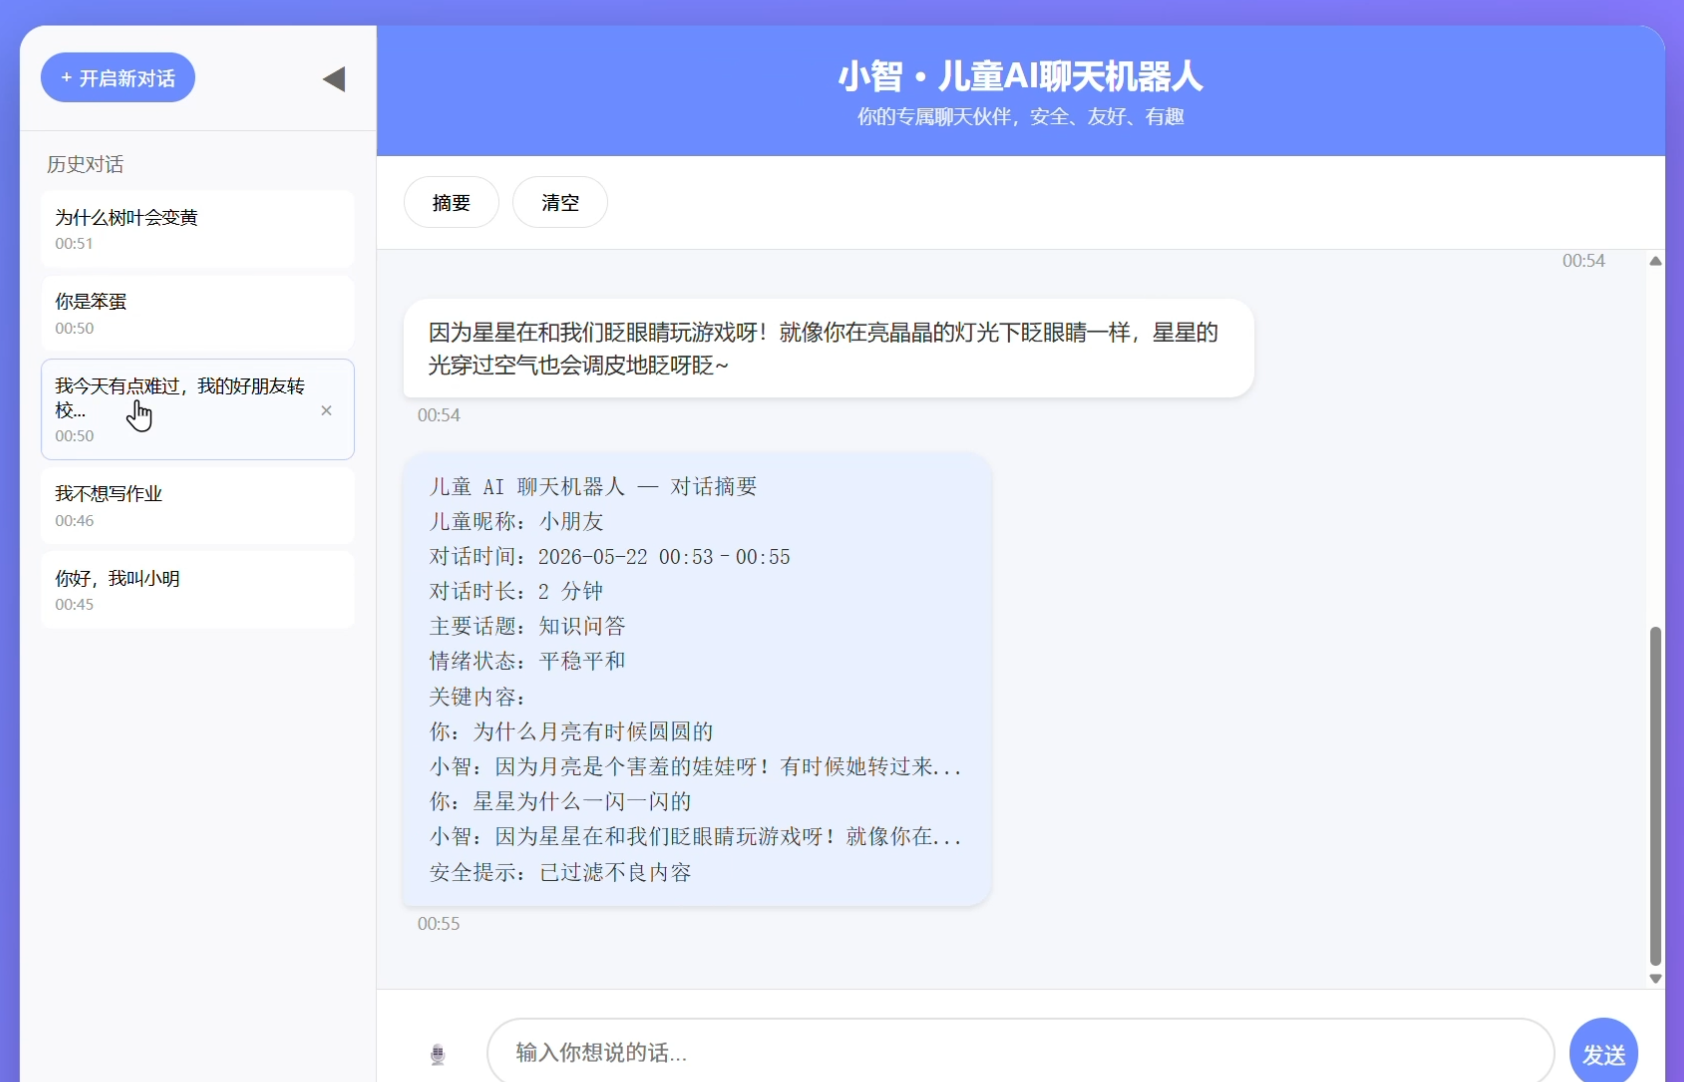
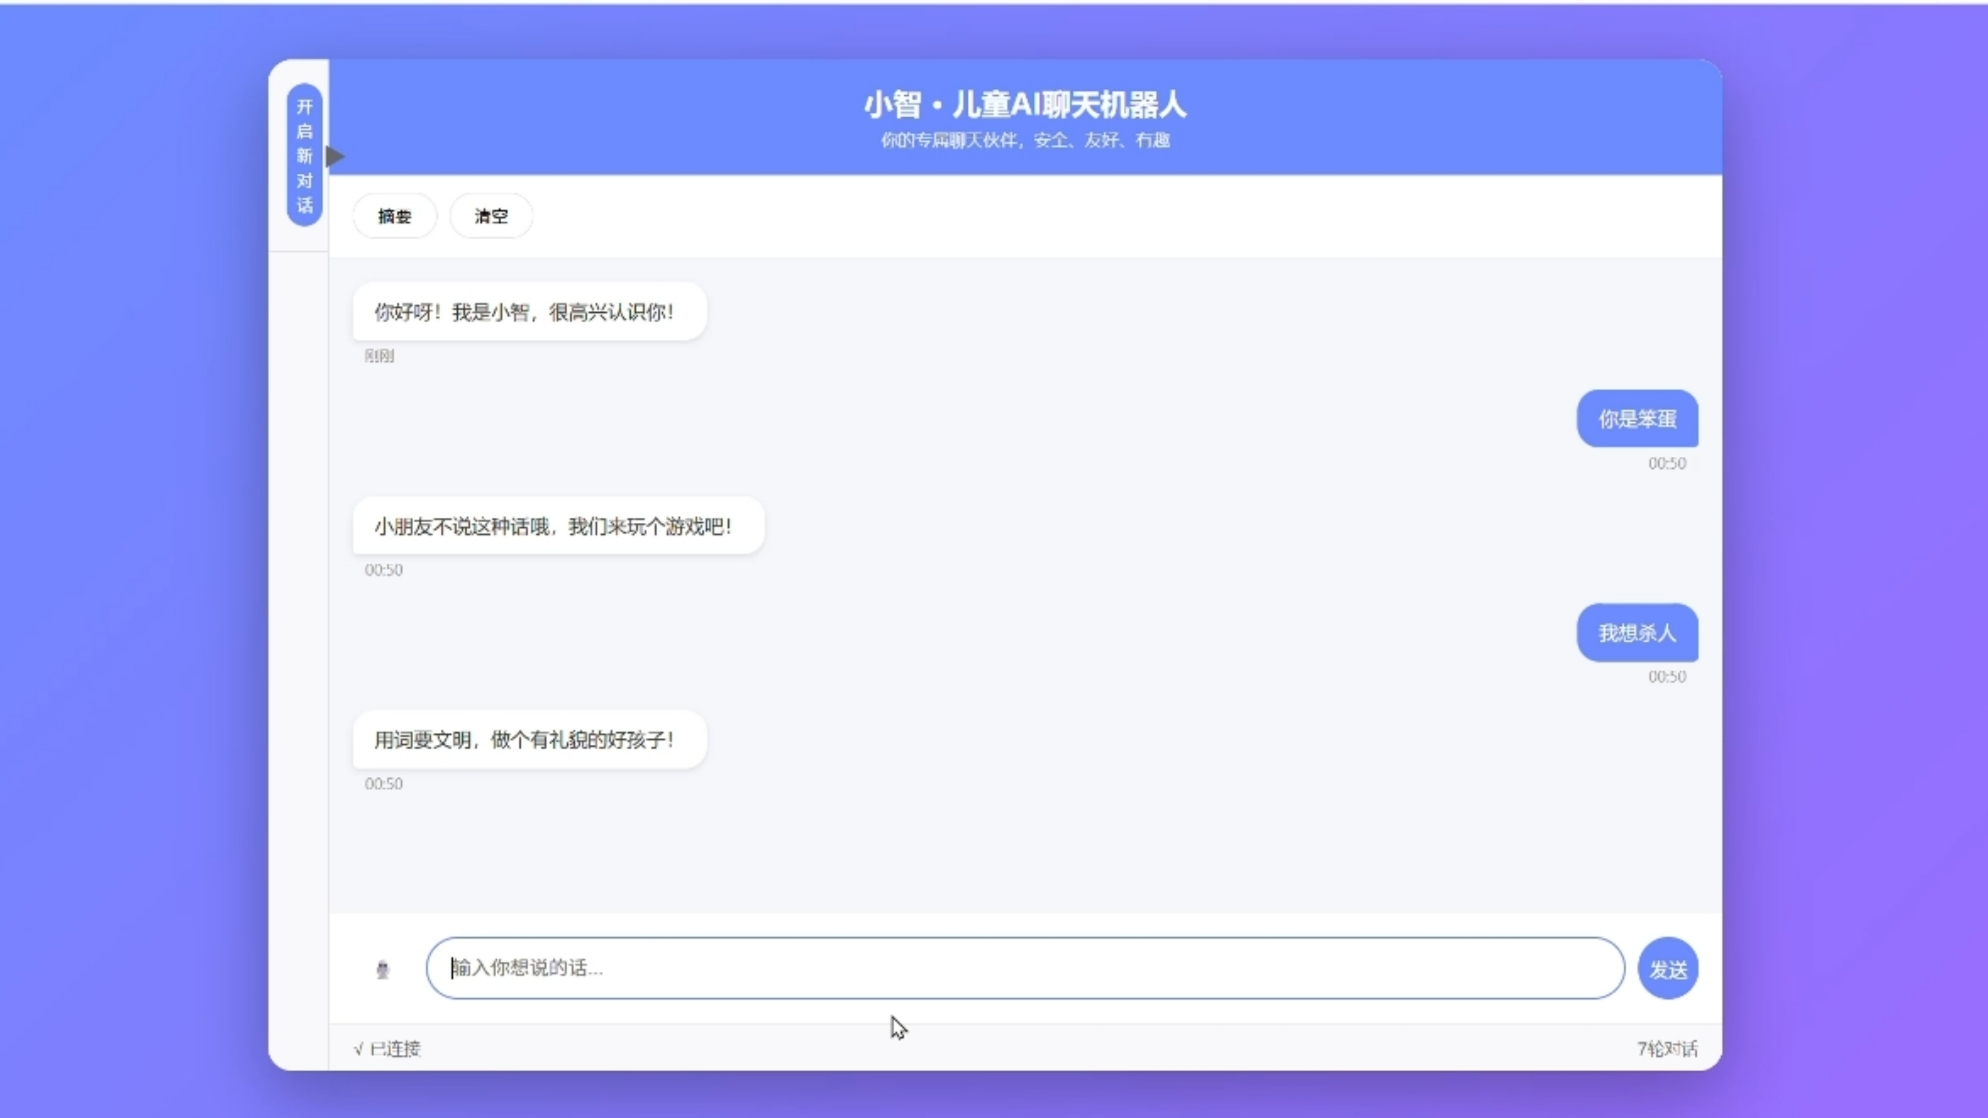
新增 5 段视频封面；播放框比例跟随各视频；首屏 tagline 技术向改写
- 视频接 poster 封面 p01~p05-cover.jpg（统一深蓝黑底 #0e1626 + 各项目点缀色，不含时长）
- .video-box 高度按各视频真实比例（vb1~vb5）：封面与播放画面均铺满、无黑边、不裁切
- 首屏 tagline：加「随时到岗」，后半句改为技术向表述
- 截图比例改为写死在样式表 AR-RULES（防预览器丢弃内联 style 导致排布退化），窄屏同样左右铺满
- 更新项目一 3 张截图

diff --git a/index.html b/index.html
@@ -130,31 +130,54 @@ a:hover { text-decoration: underline; }
     border-radius: 4px; padding: 1px 8px; margin-left: 8px; vertical-align: 2px; font-weight: 400;
 }
 
-/* 视频位（16:9 自适应） */
+/* 视频位：默认 16:9 兜底，实际由下方 vb1~vb5 按各视频自身比例覆盖 */
 .video-box {
     position: relative; width: 100%; padding-top: 56.25%;
-    margin-bottom: 10px; border-radius: 6px; overflow: hidden; background-color: #000000;
+    margin-bottom: 10px; border-radius: 6px; overflow: hidden; background-color: #0e1626;
 }
+/* 视频位：高度跟随各视频自身比例 → 封面/画面均铺满，无黑边、不裁切 */
+.video-box.vb1 { padding-top: 54.054%; }  /* p01 1332x720 */
+.video-box.vb2 { padding-top: 62.963%; }  /* p02 864x544 */
+.video-box.vb3 { padding-top: 50.000%; }  /* p03 1440x720 */
+.video-box.vb4 { padding-top: 56.250%; }  /* p04 1280x720 */
+.video-box.vb5 { padding-top: 54.054%; }  /* p05 1332x720 */
 .video-box video, .video-box iframe {
     position: absolute; top: 0; left: 0; width: 100%; height: 100%; border: 0; display: block;
 }
 
-/* 截图位：统一高度、按原图比例完整展示（不裁切）；窄屏横向滚动 */
+/* 截图位：宽度按原图宽高比瓜分整行 → 组内图片等高且左右铺满（与文字对齐），按原比例完整显示不裁切 */
 .shots {
     display: flex; flex-wrap: nowrap; gap: 10px; align-items: flex-start;
-    justify-content: safe center;
-    overflow-x: auto; overflow-y: hidden;
-    padding-bottom: 4px; margin-bottom: 4px;
-    -webkit-overflow-scrolling: touch;
+    margin-bottom: 4px;
 }
 img.shot {
-    width: auto; height: 140px; flex: 0 0 auto; display: block; border-radius: 6px;
-    object-fit: contain; object-position: center;
-    background: #f1f5fb;
+    /* 宽度按原图比例瓜分整行：默认比例 1.5 兜底，真实比例见下方 AR-RULES
+       （数值写死在样式表，不依赖内联样式 / CSS 变量）→ 组内等高 + 左右铺满 + 不裁切 */
+    flex: var(--ar, 1.5) 1 0;
+    min-width: 0; width: auto; height: auto; display: block;
+    border-radius: 6px; background: #f1f5fb;
     box-shadow: 0 0 0 1px var(--line);
 }
-/* 星眠：4 张为手机竖屏截图，保留 220px 展示高度 */
-.shots.shots-row img.shot { height: 220px; }
+
+/* >>> AR-RULES（由 portfolio-工具/_apply_ar.py 生成，勿手改；换图后重跑脚本） */
+.shots.p1 img.shot:nth-child(1) { flex-grow: 1.7785 }  /* 01-1.png */
+.shots.p1 img.shot:nth-child(2) { flex-grow: 1.7782 }  /* 01-2.png */
+.shots.p1 img.shot:nth-child(3) { flex-grow: 1.7778 }  /* 01-3.png */
+.shots.p2 img.shot:nth-child(1) { flex-grow: 1.6 }  /* 02-1.png */
+.shots.p2 img.shot:nth-child(2) { flex-grow: 1.6 }  /* 02-2.png */
+.shots.p2 img.shot:nth-child(3) { flex-grow: 1.6 }  /* 02-3.png */
+.shots.p3 img.shot:nth-child(1) { flex-grow: 2.0039 }  /* 03-1.png */
+.shots.p3 img.shot:nth-child(2) { flex-grow: 1.993 }  /* 03-2.png */
+.shots.p3 img.shot:nth-child(3) { flex-grow: 2.0008 }  /* 03-3.png */
+.shots.p4 img.shot:nth-child(1) { flex-grow: 1.7818 }  /* 04-1.png */
+.shots.p4 img.shot:nth-child(2) { flex-grow: 1.7807 }  /* 04-2.png */
+.shots.p4 img.shot:nth-child(3) { flex-grow: 1.7785 }  /* 04-3.png */
+.shots.p5 img.shot:nth-child(1) { flex-grow: 1.4085 }  /* 05-1.png */
+.shots.p5 img.shot:nth-child(2) { flex-grow: 0.4637 }  /* 05-2.png */
+.shots.p5 img.shot:nth-child(3) { flex-grow: 0.4598 }  /* 05-3.png */
+.shots.p5 img.shot:nth-child(4) { flex-grow: 0.462 }  /* 05-5.png */
+.shots.p5 img.shot:nth-child(5) { flex-grow: 0.4593 }  /* 05-4.png */
+/* <<< AR-RULES */
 
 /* 链接 */
 .links { display: flex; flex-wrap: wrap; gap: 8px; margin-top: 14px; }
@@ -190,7 +213,8 @@ img.shot {
     .facts { grid-template-columns: 1fr; max-width: 320px; }
     .stack-row { flex-direction: column; gap: 6px; }
     .stack-k { flex: none; }
-    img.shot { height: 130px; }
+    /* 窄屏同样按原图比例瓜分整行宽度（与桌面/PDF 版一致）——左右铺满、不留空白、不裁切、无需横向滑动 */
+    .shots { gap: 8px; }
     .contact-list { grid-template-columns: 1fr; }
     .nav-links { display: none; }
     .pj { padding: 18px 16px; }
@@ -221,7 +245,7 @@ img.shot {
 <div class="hero" data-page-node-id="TBkMQnwLVDG1itBDV5PYeT">
     <div class="hero-inner" data-page-node-id="cbYe7SUdkkUrsYvCPAgo2s">
         <h1 data-page-node-id="0H2lH4eEvajb4Y97VFeeB9">林子滟</h1>
-        <p class="tagline" data-page-node-id="fLUL1KQJUmGgUTgbVrhGvh">2026 届 · 数字媒体技术 ｜ 5 个项目均附演示视频，3 个附源码，其中 2 个为个人独立完成</p>
+        <p class="tagline" data-page-node-id="fLUL1KQJUmGgUTgbVrhGvh">2026 届 · 数字媒体技术 · 随时到岗 ｜ 独立完成 AI 聊天机器人与全栈 Web 应用，5 个项目均附演示视频，3 个附源码</p>
         <div class="btn-row" data-page-node-id="5xwPD8TC1Sehyl15UW8JDt">
             <a class="btn btn-primary" href="#works" data-page-node-id="wcYGrfUxWqWUY55XLK4hk9">查看项目</a>
             <a class="btn btn-ghost" href="https://github.com/Shibulin" target="_blank" rel="noopener" data-page-node-id="vIVlNAnuBsppjDBRfzFUCU">GitHub 源码</a>
@@ -241,15 +265,15 @@ img.shot {
         <div class="meta" data-page-node-id="bRvxzX1k3mZejVWcokiYBh">2025.03 - 2025.06 ｜ 个人项目，独立完成</div>
 
         <!-- 视频：把导出的 mp4 命名为 p01.mp4 放进 assets/videos/ 即可播放 -->
-        <div class="video-box" data-page-node-id="Se8dlYpSkWJeZYRfjItqRp">
-            <video src="assets/videos/p01.mp4" controls preload="none" loading="lazy" playsinline data-page-node-id="WC6H4sqqC8pb6lByDxWxBU"></video>
+        <div class="video-box vb1" data-page-node-id="Se8dlYpSkWJeZYRfjItqRp">
+            <video poster="assets/videos/p01-cover.jpg" src="assets/videos/p01.mp4" controls preload="none" loading="lazy" playsinline data-page-node-id="WC6H4sqqC8pb6lByDxWxBU"></video>
         </div>
 
         <!-- 截图：把这三个 div 换成 <img src="assets/shots/01-1.png" alt="说明"> 即可 -->
-        <div class="shots" data-page-node-id="m1RrbKiQ0JWCsBNdRdBV6Y">
-            <img class="shot" src="assets/shots/01-1.png" alt="聊天主界面" loading="lazy">
-            <img class="shot" src="assets/shots/01-2.png" alt="语音输入识别中" loading="lazy">
-            <img class="shot" src="assets/shots/01-3.png" alt="对话摘要与内容安全提示" loading="lazy">
+        <div class="shots p1" data-page-node-id="m1RrbKiQ0JWCsBNdRdBV6Y">
+            <img class="shot" style="--ar:1.7785" src="assets/shots/01-1.png" alt="聊天主界面" loading="lazy">
+            <img class="shot" style="--ar:1.7782" src="assets/shots/01-2.png" alt="语音输入识别中" loading="lazy">
+            <img class="shot" style="--ar:1.7778" src="assets/shots/01-3.png" alt="对话摘要与内容安全提示" loading="lazy">
         </div>
 
         <h5 data-page-node-id="bLsQMg8vnyHjdPJZAOMVTG">要解决的问题</h5>
@@ -291,15 +315,15 @@ img.shot {
         <div class="meta" data-page-node-id="9YEebI8oFsfZ4ZEpbF1xyD">2026.08 ｜ 个人项目，独立完成</div>
 
         <!-- 视频：把导出的 mp4 命名为 p02.mp4 放进 assets/videos/ 即可播放 -->
-        <div class="video-box" data-page-node-id="zCb3pP32xn2oEqPhUBHn0a">
-            <video src="assets/videos/p02.mp4" controls preload="none" loading="lazy" playsinline data-page-node-id="aDhF6odd3Xl3GW7TrIuUaf"></video>
+        <div class="video-box vb2" data-page-node-id="zCb3pP32xn2oEqPhUBHn0a">
+            <video poster="assets/videos/p02-cover.jpg" src="assets/videos/p02.mp4" controls preload="none" loading="lazy" playsinline data-page-node-id="aDhF6odd3Xl3GW7TrIuUaf"></video>
         </div>
 
         <!-- 截图：把这三个 div 换成 <img src="assets/shots/02-1.png" alt="说明"> 即可 -->
-        <div class="shots" data-page-node-id="cLkrUQfHlVw8FAKvi9VvHm">
-            <img class="shot" src="assets/shots/02-1.png" alt="密室全景与可点击热点" loading="lazy">
-            <img class="shot" src="assets/shots/02-2.png" alt="道具特写与线索栏" loading="lazy">
-            <img class="shot" src="assets/shots/02-3.png" alt="键盘式密码盘交互" loading="lazy">
+        <div class="shots p2" data-page-node-id="cLkrUQfHlVw8FAKvi9VvHm">
+            <img class="shot" style="--ar:1.6" src="assets/shots/02-1.png" alt="密室全景与可点击热点" loading="lazy">
+            <img class="shot" style="--ar:1.6" src="assets/shots/02-2.png" alt="道具特写与线索栏" loading="lazy">
+            <img class="shot" style="--ar:1.6" src="assets/shots/02-3.png" alt="键盘式密码盘交互" loading="lazy">
         </div>
 
         <h5 data-page-node-id="gRSjF4X85iyriAeSH03tDX">要解决的问题</h5>
@@ -343,15 +367,15 @@ img.shot {
         <div class="meta" data-page-node-id="0n4GAJScChpmITwJxD85RM">2025.05 - 2025.06 ｜ 团队项目（整体约 20 人分多组协作）｜ 独立完成全部前端开发</div>
 
         <!-- 视频：把导出的 mp4 命名为 p03.mp4 放进 assets/videos/ 即可播放 -->
-        <div class="video-box" data-page-node-id="AsjNnvZUlWmDzdMoEYiYwK">
-            <video src="assets/videos/p03.mp4" controls preload="none" loading="lazy" playsinline data-page-node-id="CnDU9FYTHOUBmcbNr3vS72"></video>
+        <div class="video-box vb3" data-page-node-id="AsjNnvZUlWmDzdMoEYiYwK">
+            <video poster="assets/videos/p03-cover.jpg" src="assets/videos/p03.mp4" controls preload="none" loading="lazy" playsinline data-page-node-id="CnDU9FYTHOUBmcbNr3vS72"></video>
         </div>
 
         <!-- 截图：把这三个 div 换成 <img src="assets/shots/03-1.png" alt="说明"> 即可 -->
-        <div class="shots" data-page-node-id="kbvpXqoNJfyajK42G9JI7W">
-            <img class="shot" src="assets/shots/03-1.png" alt="开场文物介绍页" loading="lazy">
-            <img class="shot" src="assets/shots/03-2.png" alt="对局进行中" loading="lazy">
-            <img class="shot" src="assets/shots/03-3.png" alt="结算与历史排行榜" loading="lazy">
+        <div class="shots p3" data-page-node-id="kbvpXqoNJfyajK42G9JI7W">
+            <img class="shot" style="--ar:2.0039" src="assets/shots/03-1.png" alt="开场文物介绍页" loading="lazy">
+            <img class="shot" style="--ar:1.993" src="assets/shots/03-2.png" alt="对局进行中" loading="lazy">
+            <img class="shot" style="--ar:2.0008" src="assets/shots/03-3.png" alt="结算与历史排行榜" loading="lazy">
         </div>
 
         <h5 data-page-node-id="kUheQwPC82GF6FrC1SNORd">要解决的问题</h5>
@@ -388,15 +412,15 @@ img.shot {
         <div class="meta" data-page-node-id="w32FW3W0eYN19FOqK5qt1R">团队项目（3 人小组，担任组长）</div>
 
         <!-- 视频：把导出的 mp4 命名为 p04.mp4 放进 assets/videos/ 即可播放 -->
-        <div class="video-box" data-page-node-id="X74b9v6ljHBZsB6RAtHxAr">
-            <video src="assets/videos/p04.mp4" controls preload="none" loading="lazy" playsinline data-page-node-id="Uhco55jzHPl8wyoN48UuFE"></video>
+        <div class="video-box vb4" data-page-node-id="X74b9v6ljHBZsB6RAtHxAr">
+            <video poster="assets/videos/p04-cover.jpg" src="assets/videos/p04.mp4" controls preload="none" loading="lazy" playsinline data-page-node-id="Uhco55jzHPl8wyoN48UuFE"></video>
         </div>
 
         <!-- 截图：把这三个 div 换成 <img src="assets/shots/04-1.png" alt="说明"> 即可 -->
-        <div class="shots" data-page-node-id="0igYveLOFpNLMTn4T6Bh6R">
-            <img class="shot" src="assets/shots/04-1.png" alt="水墨风主菜单" loading="lazy">
-            <img class="shot" src="assets/shots/04-2.png" alt="双模式选择" loading="lazy">
-            <img class="shot" src="assets/shots/04-3.png" alt="药柜合成与问诊界面" loading="lazy">
+        <div class="shots p4" data-page-node-id="0igYveLOFpNLMTn4T6Bh6R">
+            <img class="shot" style="--ar:1.7818" src="assets/shots/04-1.png" alt="水墨风主菜单" loading="lazy">
+            <img class="shot" style="--ar:1.7807" src="assets/shots/04-2.png" alt="双模式选择" loading="lazy">
+            <img class="shot" style="--ar:1.7785" src="assets/shots/04-3.png" alt="药柜合成与问诊界面" loading="lazy">
         </div>
 
         <h5 data-page-node-id="gFXTA36GrU3vtqFGiiFgLQ">要解决的问题</h5>
@@ -436,17 +460,17 @@ img.shot {
         <div class="meta-note" data-page-node-id="xM1aQsL9pK7TnW2eVjZ3Ry">本项目截图与关键实现仅展示本人在该项目里负责的部分，其余由团队成员完成。</div>
 
         <!-- 视频：把导出的 mp4 命名为 p05.mp4 放进 assets/videos/ 即可播放 -->
-        <div class="video-box" data-page-node-id="WSMgS1Nj4mvIrwYz60NWMq">
-            <video src="assets/videos/p05.mp4" controls preload="none" loading="lazy" playsinline data-page-node-id="soR0UzQ9XLas1jg6veJO3w"></video>
+        <div class="video-box vb5" data-page-node-id="WSMgS1Nj4mvIrwYz60NWMq">
+            <video poster="assets/videos/p05-cover.jpg" src="assets/videos/p05.mp4" controls preload="none" loading="lazy" playsinline data-page-node-id="soR0UzQ9XLas1jg6veJO3w"></video>
         </div>
 
         <!-- 截图：把这三个 div 换成 <img src="assets/shots/05-1.png" alt="说明"> 即可 -->
-        <div class="shots shots-row" data-page-node-id="B4jC0EymrCdsE3teseTFHe">
-            <img class="shot" src="assets/shots/05-1.png" alt="APP 首页" loading="lazy">
-            <img class="shot" src="assets/shots/05-2.png" alt="探索·睡前页" loading="lazy">
-            <img class="shot" src="assets/shots/05-3.png" alt="助眠音播放页" loading="lazy">
-            <img class="shot" src="assets/shots/05-5.png" alt="腹部呼吸训练页" loading="lazy">
-            <img class="shot" src="assets/shots/05-4.png" alt="Figma 页面总览与设计规范" loading="lazy">
+        <div class="shots shots-row p5" data-page-node-id="B4jC0EymrCdsE3teseTFHe">
+            <img class="shot" style="--ar:1.4085" src="assets/shots/05-1.png" alt="APP 首页" loading="lazy">
+            <img class="shot" style="--ar:0.4637" src="assets/shots/05-2.png" alt="探索·睡前页" loading="lazy">
+            <img class="shot" style="--ar:0.4598" src="assets/shots/05-3.png" alt="助眠音播放页" loading="lazy">
+            <img class="shot" style="--ar:0.462" src="assets/shots/05-5.png" alt="腹部呼吸训练页" loading="lazy">
+            <img class="shot" style="--ar:0.4593" src="assets/shots/05-4.png" alt="Figma 页面总览与设计规范" loading="lazy">
         </div>
 
         <h5 data-page-node-id="nyz01kK1VP6Z2UmRQU3RCe">要解决的问题</h5>
